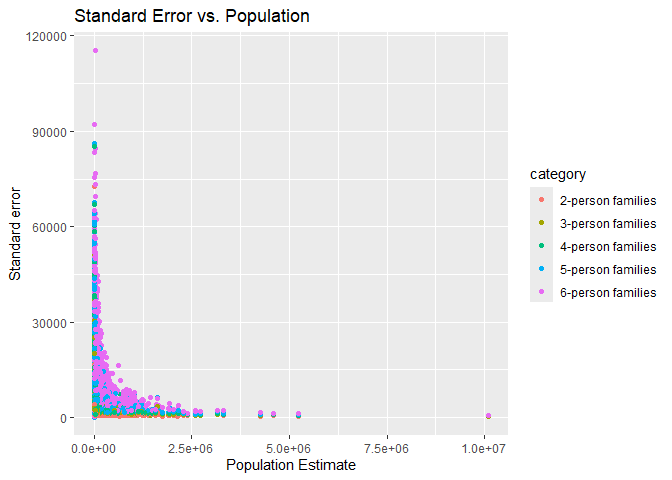
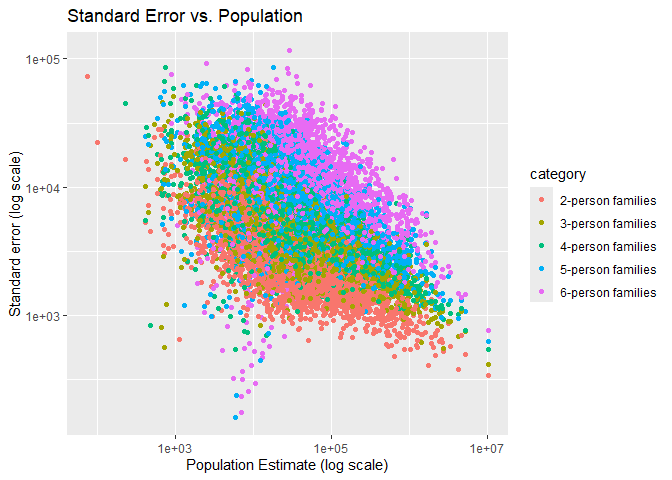
Resubmit C09

diff --git a/challenges/c09-income-assignment.md b/challenges/c09-income-assignment.md
@@ -489,24 +489,27 @@ df_data %>%
 **Observations**:
 
 - Document your observations here.
-  - Nantucket’s 5-person has a range that spans the entire graph. In
-    fact, it probably determined the x-range of the graph.
+  - Nantucket’s 5-person has a confidence interval that spans the entire
+    graph.
   - Generally, it looks like 2-person families have a the lowest median
     income when compared to the other family categories. However,
-    5-person and 6-person families tend to have the biggest range.
-    Perhaps this is due to a lack of data points at this size.
+    5-person and 6-person families tend to have the biggest confidence
+    intervals. Perhaps this is due to a lack of data points at this
+    size.
   - 3-person families generally make more than 2-person families.
-  - 2-person families seem to have the smallest range. Is this
-    reflective of reality, or is it simply because there are fewer
+  - 2-person families seem to have the smallest confidence interval. Is
+    this reflective of reality, or is it simply because there are fewer
     2-person families?
   - Most 2-person families make between 50000 to 100000.
   - Is there another way to see whether location or category is more
     important to median income?
 - Can you confidently distinguish between household incomes in Suffolk
   county? Why or why not?
-  - Not really, the data points at Suffolk county are clumped relative
-    to the other data points. The ranges are similar, and the medians
-    are very close together, probably within ~25000 of each other.
+  - No. The confidence intervals for each median overlap. The estimated
+    medians are thus statistically indistinguishable, and it is
+    technically possible for all household incomes to be the same in
+    Suffolk county. We cannot confidently say that the median household
+    income for one group is greater than the other.
 - Which counties have the widest confidence intervals?
   - Nantucket has the largest confidence intervals. However, it doesn’t
     appear to have data for 6-person families. The same situation
@@ -528,9 +531,11 @@ df_data %>%
   geom_point() + 
   labs(
     title = "Standard Error vs. Population", 
-    x = "Population Estimate", 
-    y = "Standard error"
-  )
+    x = "Population Estimate (log scale)", 
+    y = "Standard error (log scale)"
+  ) + 
+  scale_x_log10() + 
+  scale_y_log10()
 ```
 
     ## Warning: Removed 814 rows containing missing values or values outside the scale range
